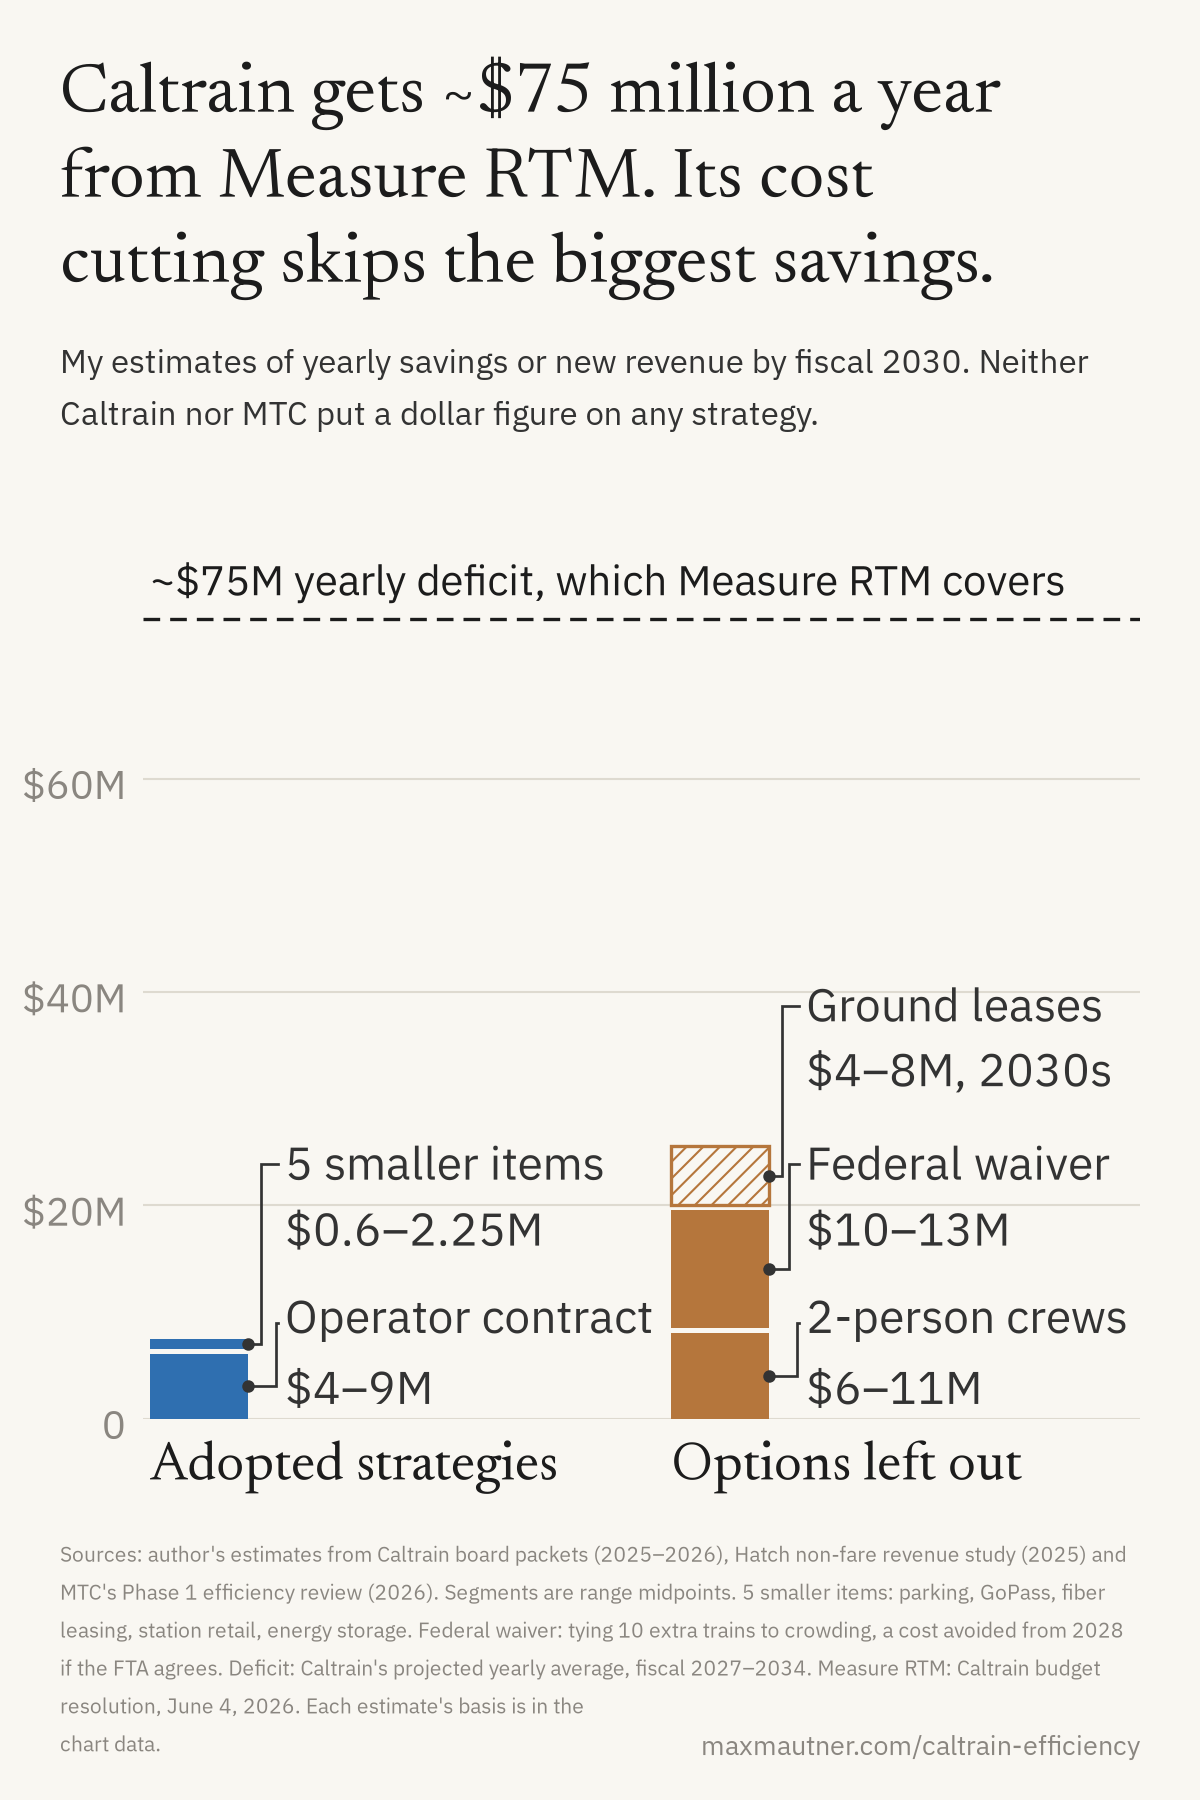
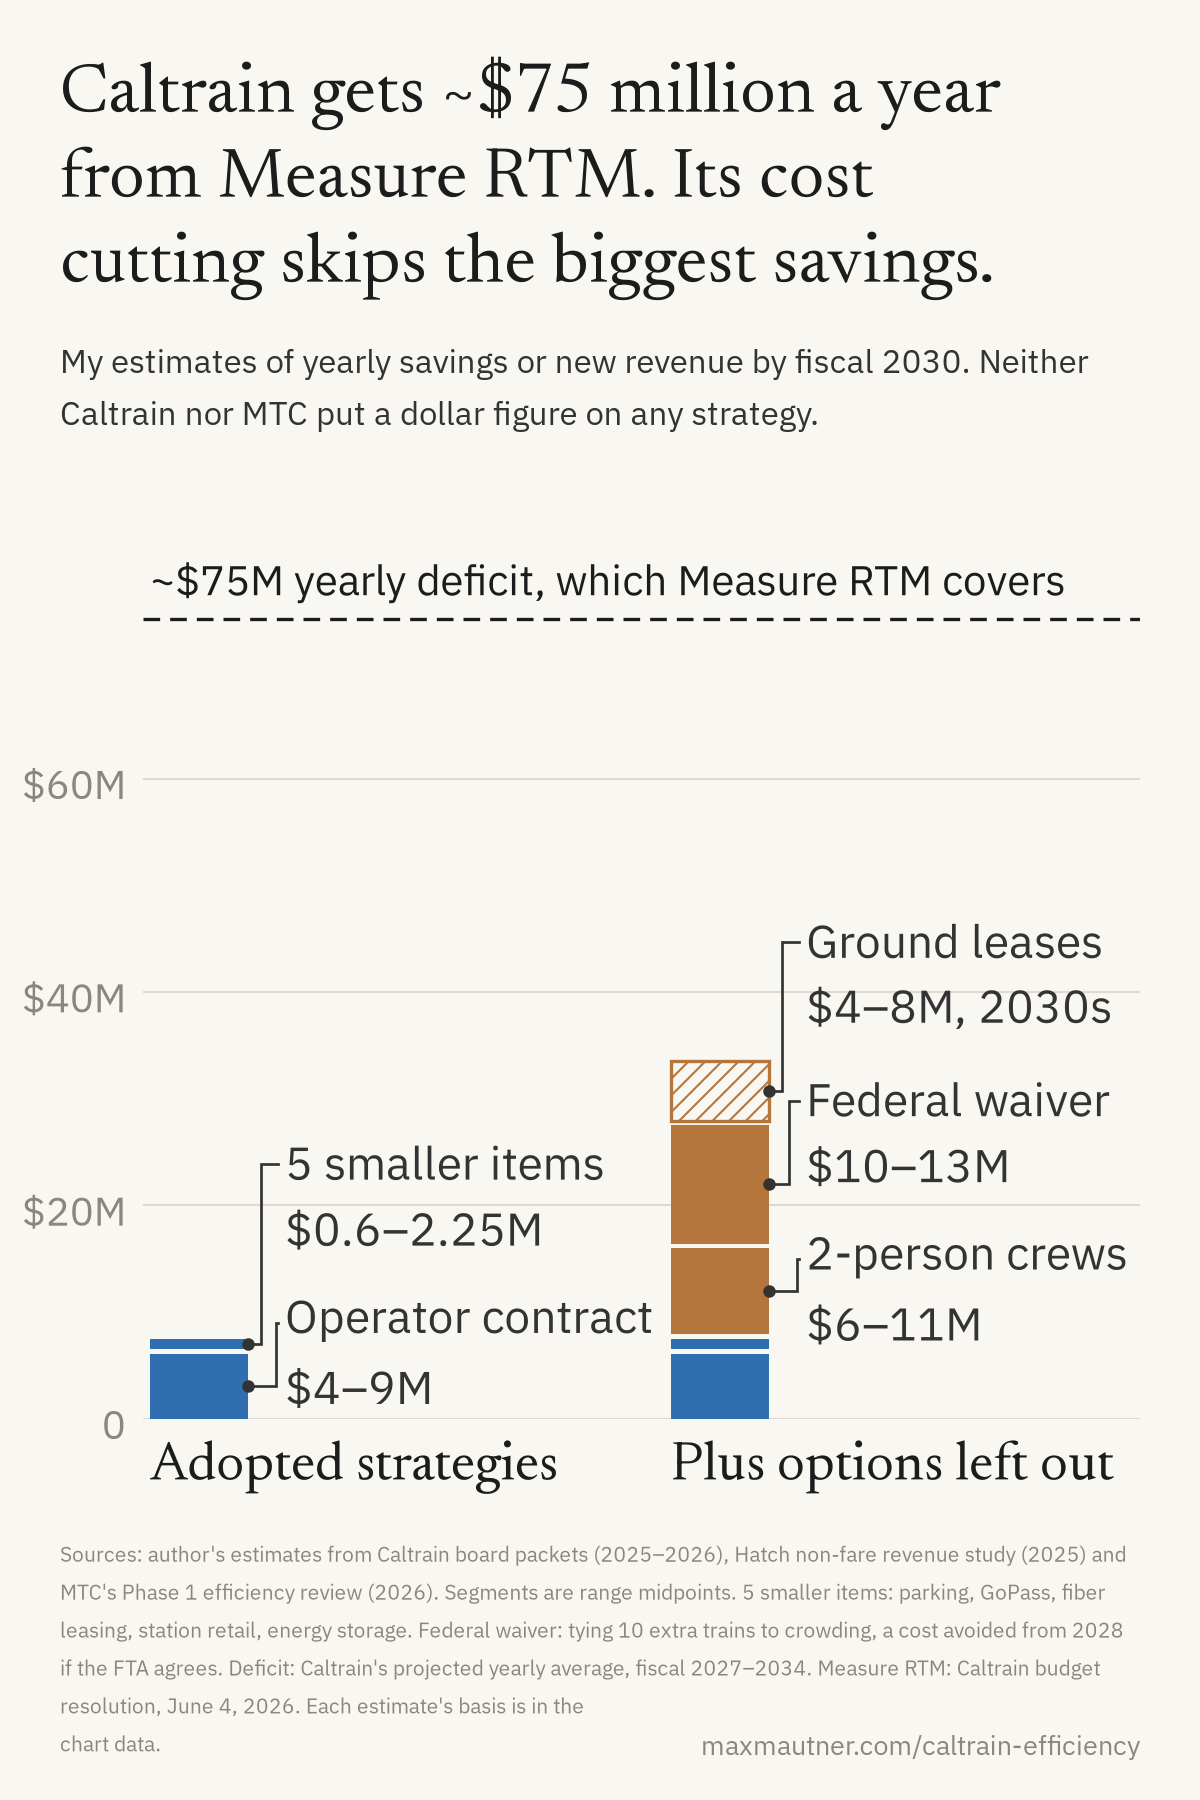
caltrain-efficiency: stack the options left out on top of the adopted strategies
Two readers read the separate columns as alternatives. The options would add to
what Caltrain adopted, so the second column now starts from the adopted total.

Changed region(s): [[0.555, 0.4978, 0.9558, 0.84]]

diff --git a/2026-11-06-caltrain-efficiency/charts/charts.py b/2026-11-06-caltrain-efficiency/charts/charts.py
@@ -121,8 +121,13 @@ def estimates(fmt_name, name):
     ax.set_ylim(0, ymax)
     gap = 0.03 * per_in                    # thin background gap between stacked segments
 
-    def column(x, lx, segs):
+    def column(x, lx, segs, under=()):
+        """Stack `under` first, unlabeled, then `segs` with labels on top of it."""
         base, mids = 0, []
+        for key, lo, hi, color, hatched in under:
+            mid = (lo + hi) / 2
+            ax.bar(x, mid - gap, bottom=base, width=col_w, color=color, lw=0, zorder=2)
+            base += mid
         for key, lo, hi, color, hatched in segs:
             mid = (lo + hi) / 2
             ax.bar(x, mid - gap, bottom=base, width=col_w, color=BG if hatched else color, edgecolor=color,
@@ -149,7 +154,9 @@ def estimates(fmt_name, name):
                     fontproperties=lab_fp)
 
     column(x1, lx1, adopted)
-    column(x2, lx2, left_out)
+    # the options left out stack on top of the adopted strategies: they would add to them, not replace them
+    # (2 readers, Nov. 2026, read separate columns as alternatives rather than cumulative)
+    column(x2, lx2, left_out, under=adopted)
     ax.axhline(DEFICIT, color=INK, lw=1.6, ls=(0, (5, 3)), zorder=3)
     # the line's label sits at its left end, just above it, so readers learn what the line is as they meet it
     # (a reader, John, Nov. 2026, took a moment to read the line when its label was at the far right, below it)
@@ -160,7 +167,7 @@ def estimates(fmt_name, name):
 
     # column names left-aligned with each column's left edge
     ax.set_xticks([])
-    for x, label in zip([x1, x2], ["Adopted strategies", "Options left out"]):
+    for x, label in zip([x1, x2], ["Adopted strategies", "Plus options left out"]):
         ax.annotate(label, xy=(x - col_w / 2, 0), xycoords=("data", "axes fraction"), xytext=(0, -10 * k),
                     textcoords="offset points", ha="left", va="top", color=INK,
                     fontproperties=font("serif", SIZE["column"] * k))

diff --git a/2026-11-06-caltrain-efficiency/README.md b/2026-11-06-caltrain-efficiency/README.md
@@ -6,10 +6,10 @@ unambitious. Watermark short URL: maxmautner.com/caltrain-efficiency.
 One chart:
 
 - `caltrain-strategies`: 2 stacked columns on one scale, from zero. The 6 strategies Caltrain adopted under SB 63
-  (operator contract, plus 5 smaller items stacked as one segment) and the 3 options its own documents point to that
-  it isn't pursuing, against a dashed line at the ~$75 million average yearly deficit Caltrain projects for fiscal
+  (operator contract, plus 5 smaller items stacked as one segment), and the same strategies with the 3 options its own
+  documents point to that it isn't pursuing stacked on top, so the second column is cumulative, against a dashed line at the ~$75 million average yearly deficit Caltrain projects for fiscal
   2027 to 2034 (Hatch/JPB deck, Apr. 2025), about what Measure RTM gives it each year. Segments are the midpoint of
-  each estimate range; each segment's label gives its full range, and the title gives each column's.
+  each estimate range; each segment's label gives its full range.
 
 **These are estimates, not agency figures.** Neither MTC's Phase 1 review nor Caltrain put a dollar figure on any
 strategy. `data/estimates.csv` gives each estimate's basis and timing.
